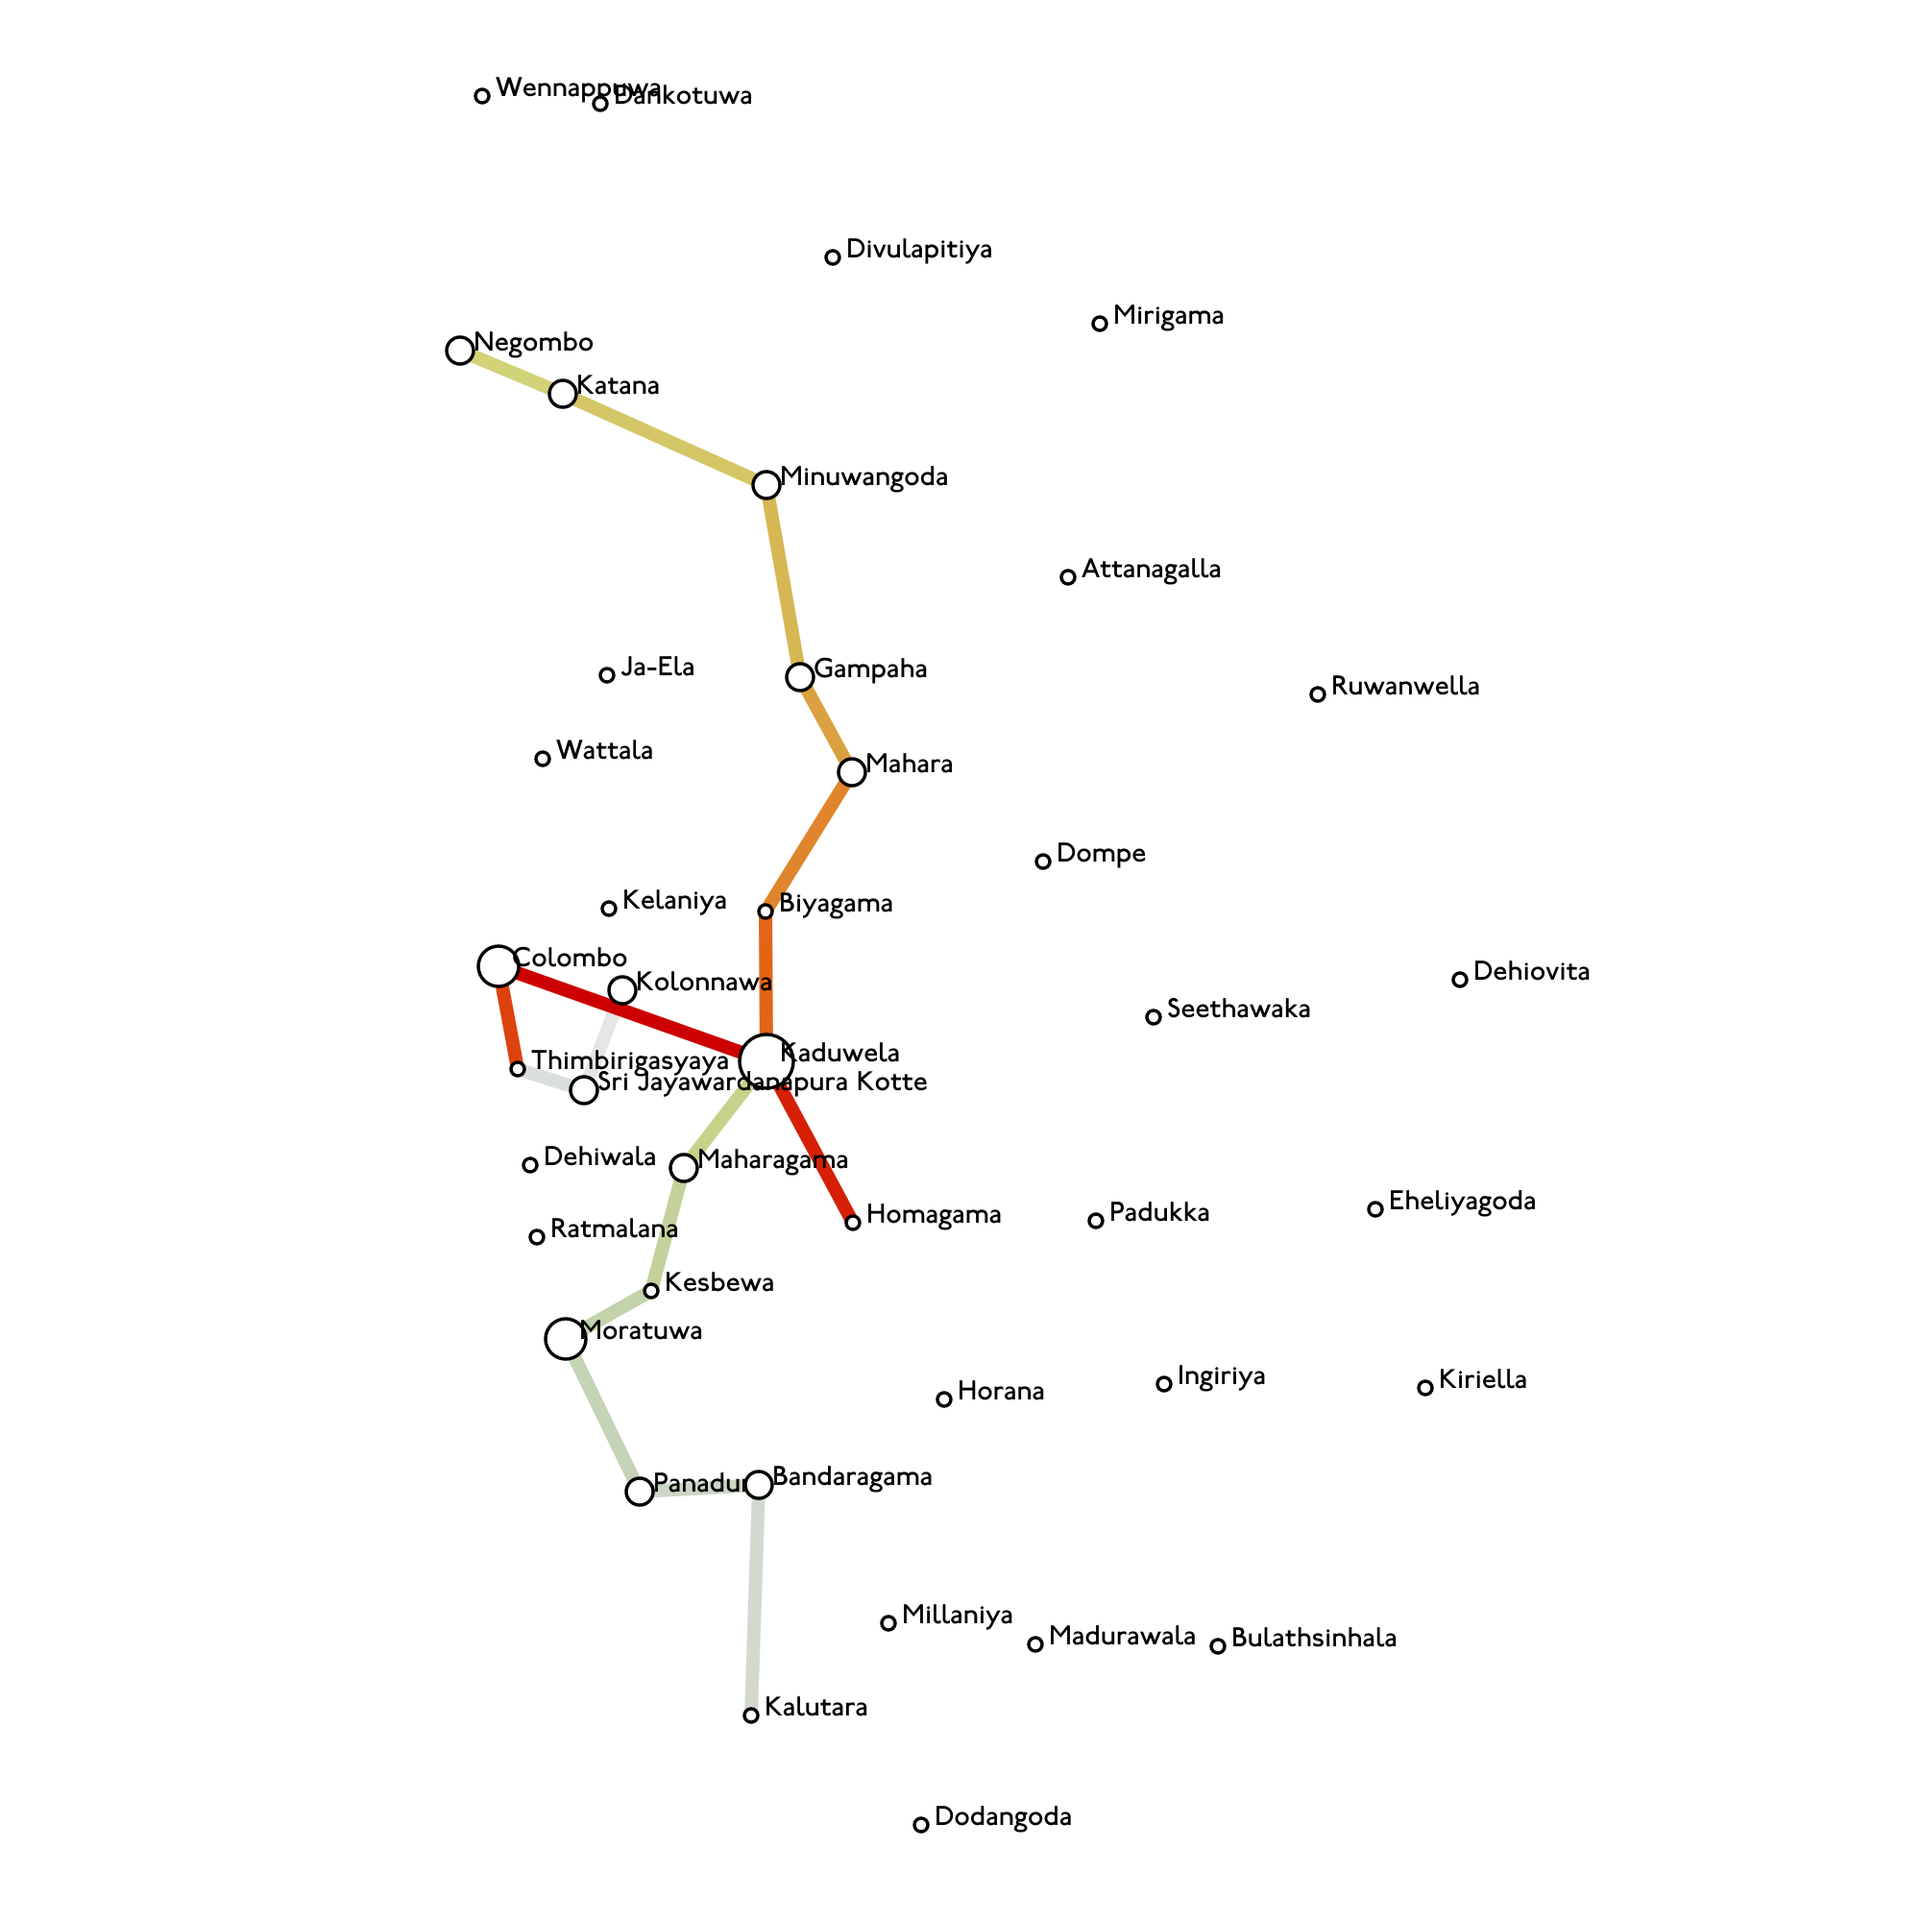
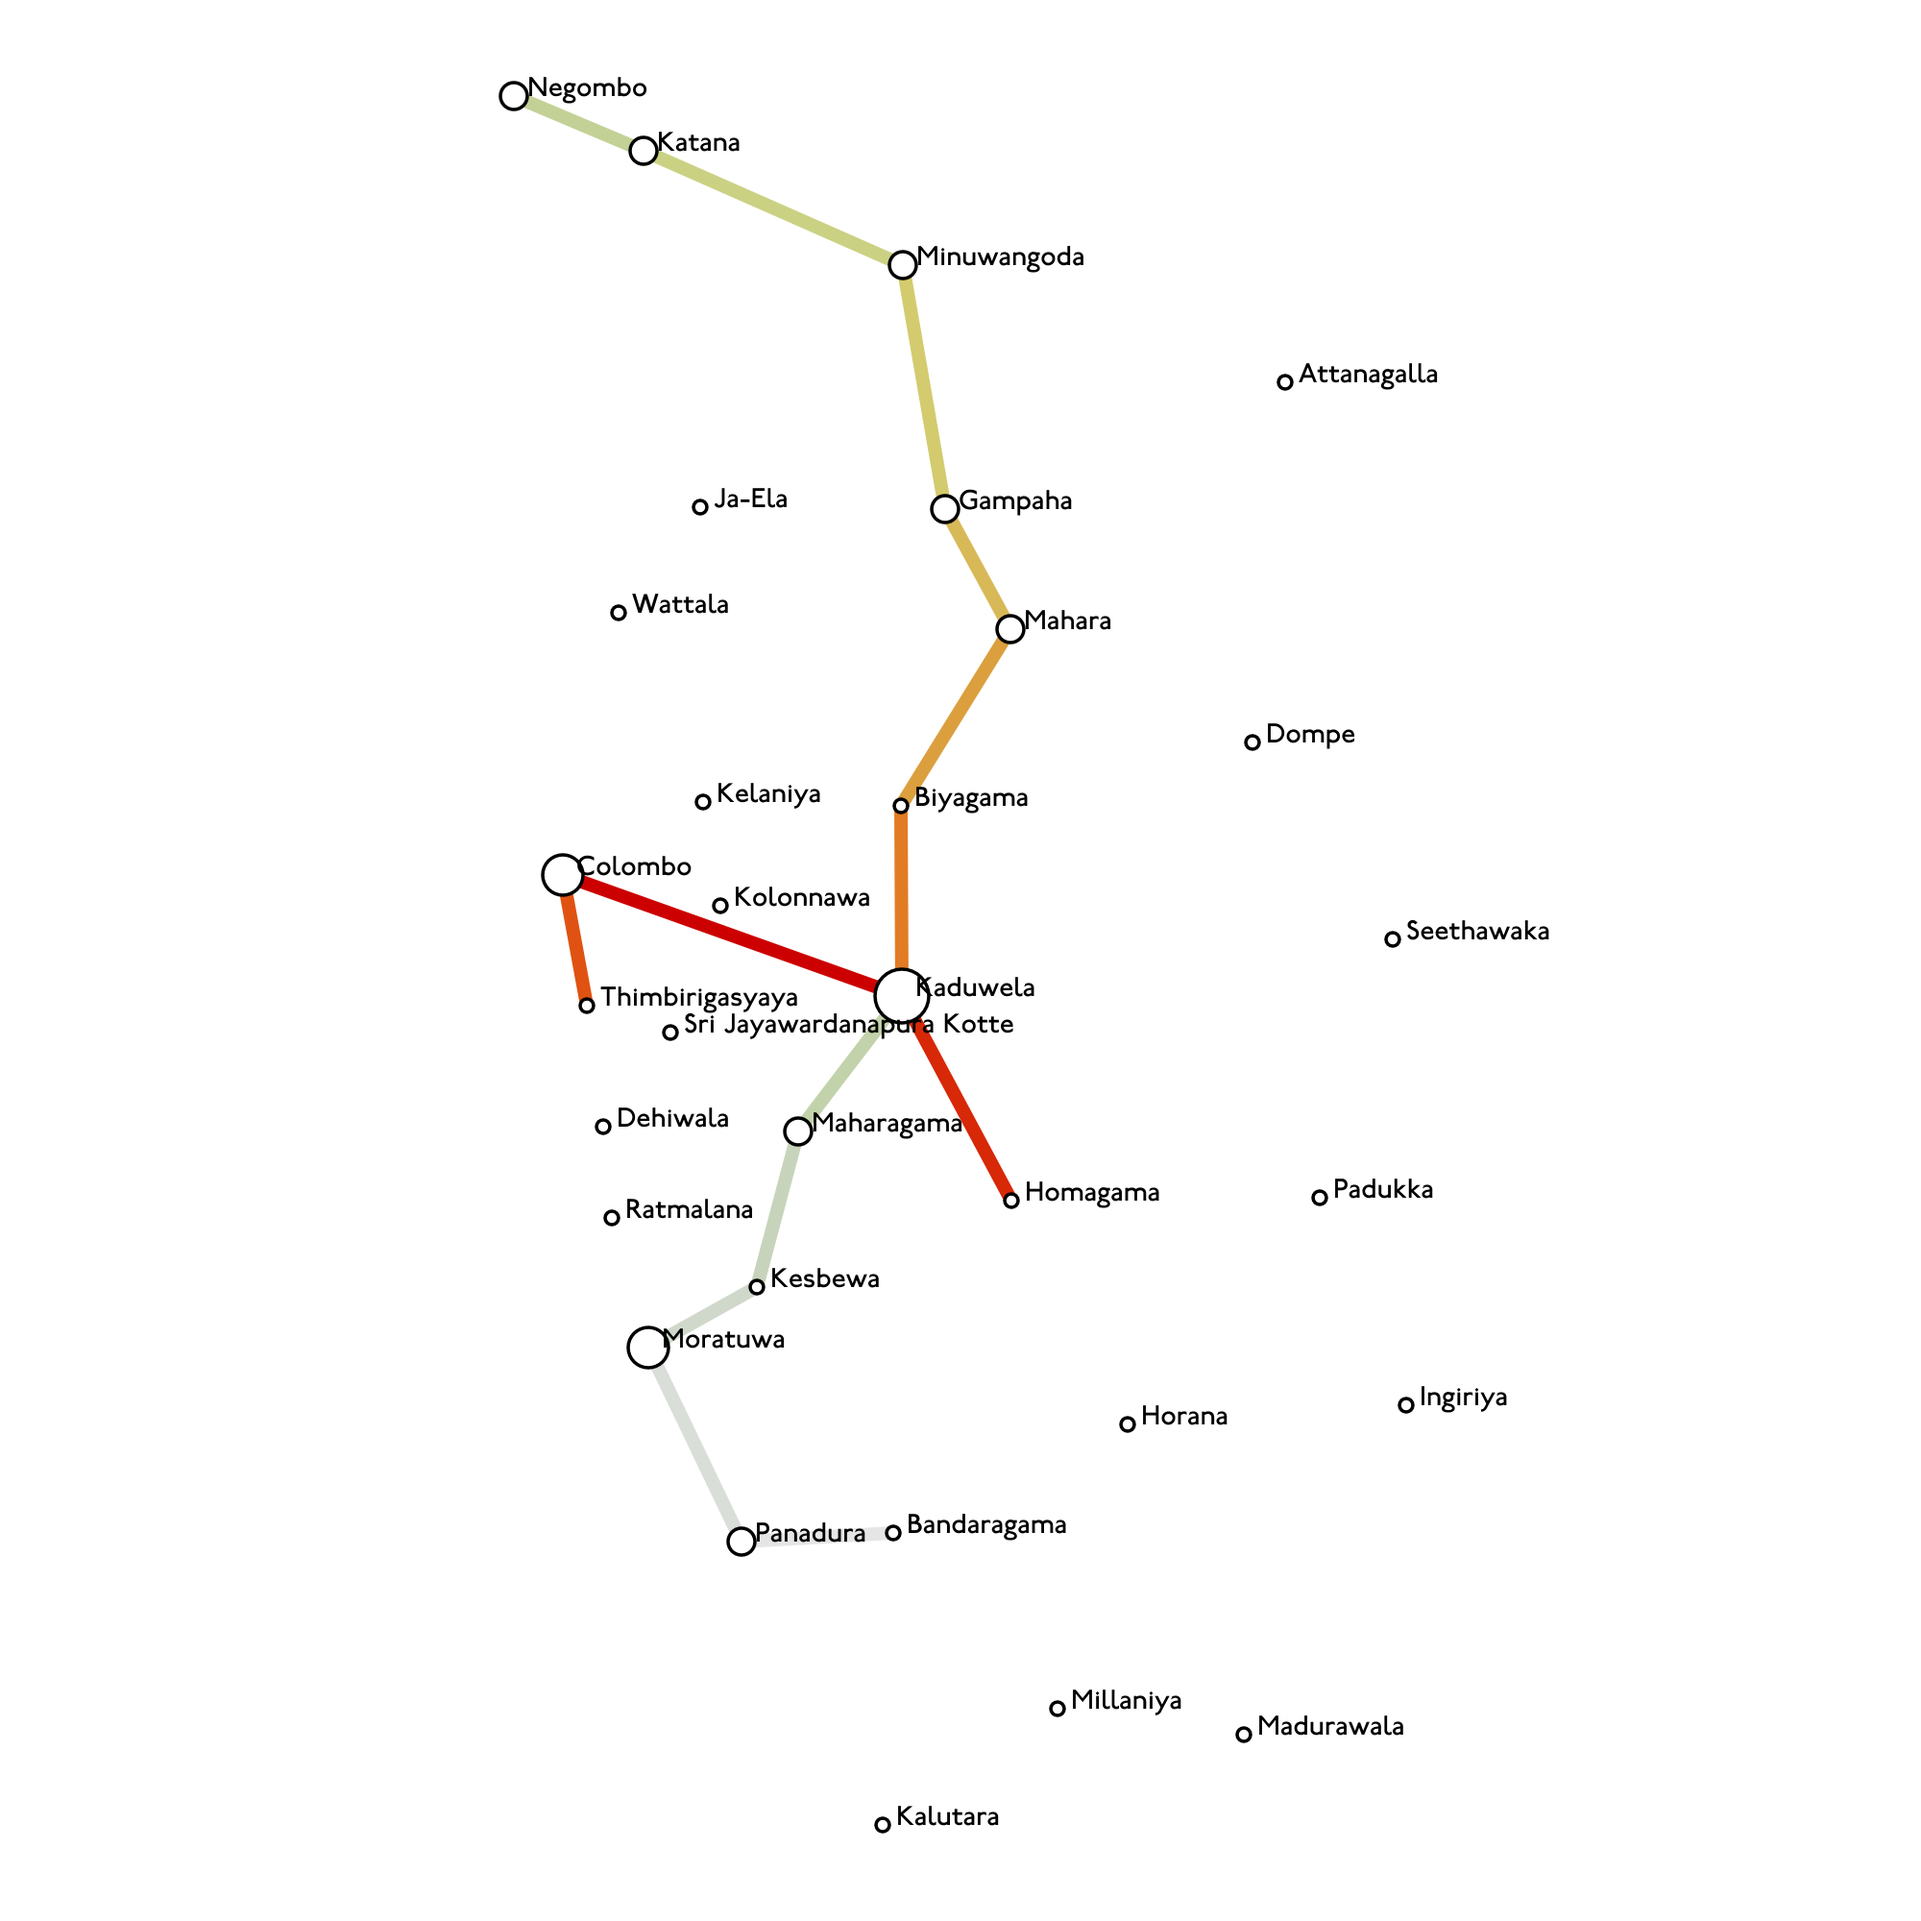
various

diff --git a/src/lgn/core/network.py b/src/lgn/core/network.py
@@ -128,11 +128,13 @@ class Network:
     def distance_matrix(self):
         dist = {}
 
+        def _dist(node1, node2):
+            return dist[node1].get(node2, float('inf'))
+
         nodes = self.node_list
-        for node1 in nodes:
-            dist[node1] = {}
-            for node2 in nodes:
-                dist[node1][node2] = 0 if node1 == node2 else float('inf')
+        for node in nodes:
+            dist[node] = {}
+            dist[node][node] = 0
 
         for node1, node2 in self.edge_pair_list:
             distance = shape_utils.compute_distance(
@@ -145,10 +147,9 @@ class Network:
         for node2 in nodes:
             for node1 in nodes:
                 for node3 in nodes:
-                    dist[node1][node3] = min(
-                        dist[node1][node3],
-                        dist[node1][node2] + dist[node2][node3],
-                    )
+                    distance_via = _dist(node1, node2) + _dist(node2, node3)
+                    if distance_via < _dist(node1, node3):
+                        dist[node1][node3] = distance_via
 
         return dist
 
@@ -162,3 +163,12 @@ class Network:
             )
             network_length += distance
         return network_length
+
+    @cached_property
+    def total_population(self):
+        return sum([node['population'] for node in self.node_idx.values()])
+
+    @cached_property
+    def total_people_pairs(self):
+        total_population = self.total_population
+        return total_population * (total_population - 1) / 2

diff --git a/workflows/rail_network.py b/workflows/rail_network.py
@@ -1,8 +1,10 @@
 from gig import EntType
 from utils import Log
 
-from lgn import Draw, Network, Styler
+from lgn.core.network import Network
 from lgn.custom_edges import single_segments
+from lgn.render.draw import Draw
+from lgn.render.styler import Styler
 from lgn.utils import shape_utils
 
 log = Log('rail_network')
@@ -10,12 +12,14 @@ log = Log('rail_network')
 
 def is_close_enough(centroid):
     distance = shape_utils.compute_distance(centroid, [6.92, 79.86])
-    return distance < 50
+    return distance < 40
 
 
 if __name__ == '__main__':
     network = Network.from_type(
-        EntType.DSD, lambda ent: is_close_enough(ent.centroid)
+        EntType.DSD,
+        lambda ent: is_close_enough(ent.centroid)
+        # and ent.id in ['LK-11', 'LK-12', 'LK-13', 'LK-61', 'LK-21', 'LK-31']
     )
 
     # network = single_segments.rebuild_actual(network)
@@ -25,7 +29,7 @@ if __name__ == '__main__':
 
     #
 
-    network = single_segments.rebuild_incr(network, max_network_length=120)
+    network = single_segments.rebuild_incr(network, max_network_length=100)
 
     average_meet_time_str = single_segments.format_time(
         single_segments.compute_average_meet_time(network)
@@ -35,4 +39,4 @@ if __name__ == '__main__':
 
     styler = Styler()
     draw = Draw(network, styler)
-    draw.draw(f'workflow_media/rail_network.single_segments.rebuild_incr.png')
+    draw.draw('workflow_media/rail_network.single_segments.rebuild_incr.png')

diff --git a/src/lgn/custom_edges/actual.py b/src/lgn/custom_edges/actual.py
@@ -1,0 +1,33 @@
+def expand(*node_list):
+    edge_pair_list = []
+    for i in range(len(node_list) - 1):
+        edge_pair_list.append([node_list[i], node_list[i + 1]])
+    return edge_pair_list
+
+
+def rebuild_actual_districts(network):
+    network.edge_pair_list = (
+        expand(
+            'Colombo',
+            'Gampaha',
+            'Kegalle',
+            'Kandy',
+            "Nuwara Eliya",
+            "Badulla",
+        )
+        + expand('Colombo', 'Kalutara', "Galle", "Matara", "Hambantota")
+        + expand('Gampaha', 'Puttalam')
+        + expand(
+            'Kegalle',
+            'Kurunegala',
+            'Anuradhapura',
+            'Vavuniya',
+            'Kilinochchi',
+            'Jaffna',
+        )
+        + expand('Anuradhapura', 'Polonnaruwa', 'Batticaloa')
+        + expand('Polonnaruwa', 'Trincomalee')
+        + expand('Anuradhapura', 'Mannar')
+        + expand('Kandy', 'Matale')
+    )
+    return network

diff --git a/src/lgn/utils/shape_utils.py b/src/lgn/utils/shape_utils.py
@@ -1,3 +1,5 @@
+from functools import cache
+
 import shapely
 from utils import Log
 
@@ -17,10 +19,15 @@ def compute_area(polygon_list):
     )
 
 
+@cache
+def _compute_distance(x1, y1, x2, y2):
+    return ((x1 - x2) ** 2 + (y1 - y2) ** 2) ** 0.5 * DISTANCE_PER_UNIT_COORD
+
+
 def compute_distance(loc1, loc2):
     x1, y1 = loc1
     x2, y2 = loc2
-    return ((x1 - x2) ** 2 + (y1 - y2) ** 2) ** 0.5 * DISTANCE_PER_UNIT_COORD
+    return _compute_distance(x1, y1, x2, y2)
 
 
 def get_bbox(loc_list: list) -> tuple[float, float, float, float]:

diff --git a/src/lgn/utils/color_utils.py b/src/lgn/utils/color_utils.py
@@ -2,10 +2,12 @@ import colorsys
 
 
 def p_to_color(p):
-    h = p * 120 / 360.0
-    l = 0.4 + 0.5 * p
-    s = 1 - p
+    hue = p * 120 / 360.0
+    lightness = 0.4 + 0.5 * p
+    saturation = 1 - p
 
-    (r, g, b) = [int(x * 255) for x in colorsys.hls_to_rgb(h, l, s)]
+    (r, g, b) = [
+        int(x * 255) for x in colorsys.hls_to_rgb(hue, lightness, saturation)
+    ]
     hex = f'#{r:02x}{g:02x}{b:02x}'
     return hex
